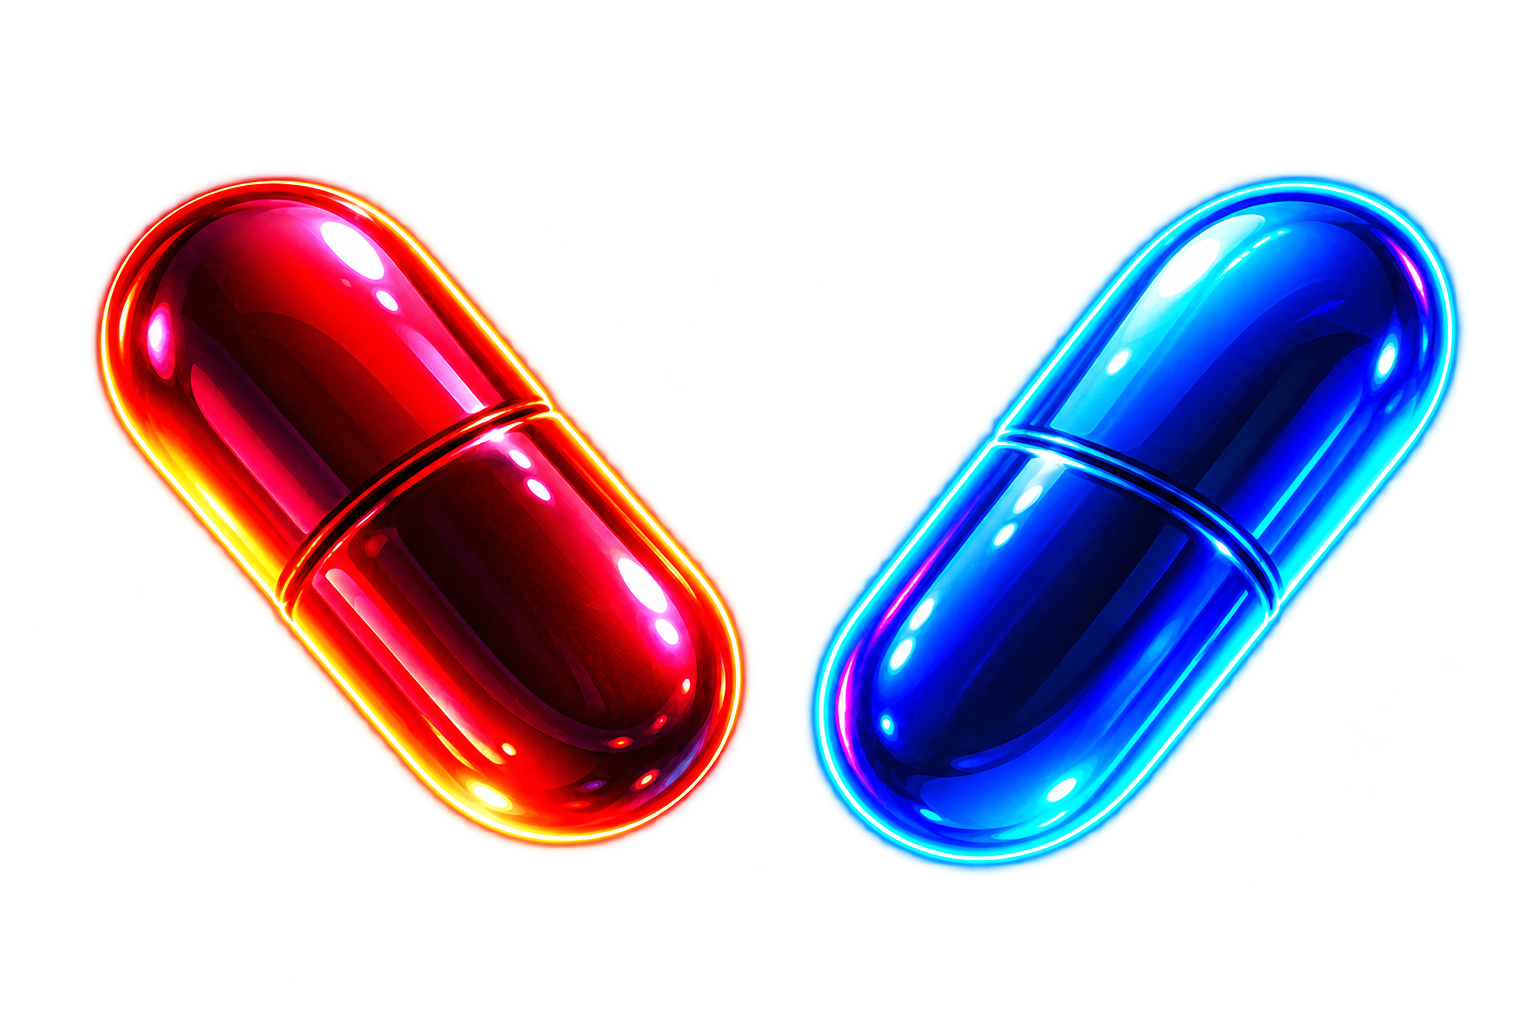
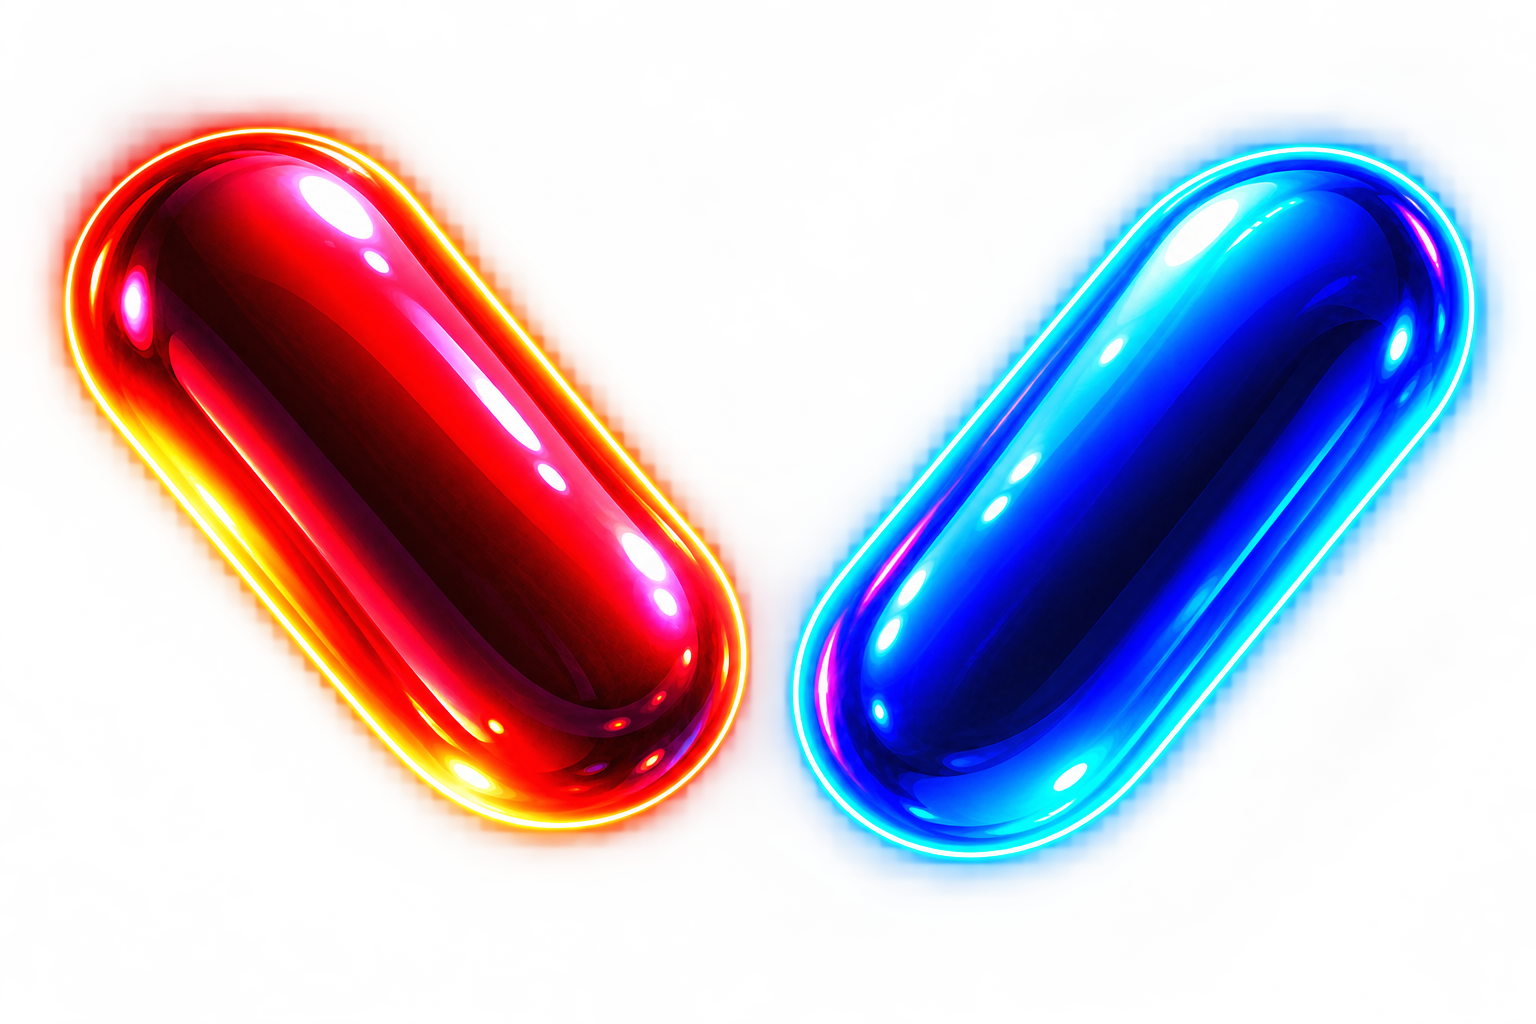
Add Would You Rather functionality and update UI components

diff --git a/lib/screens/gameplay_screen.dart b/lib/screens/gameplay_screen.dart
@@ -463,6 +463,46 @@ class _GameplayScreenState extends State<GameplayScreen> {
     setState(() {});
   }
 
+  void _applyWouldYouRatherAndAdvance({required bool chooseRightOption}) {
+    _engine.applyWouldYouRatherVote(chooseRightOption: chooseRightOption);
+    if (_engine.isFinished) {
+      Navigator.of(context).pushReplacement(
+        MaterialPageRoute(
+          builder: (_) => EndGameScreen(
+            players: _engine.ranking,
+            replayPlayerNames:
+                _engine.players.map((p) => p.name).toList(),
+            replayPlayerAvatars:
+                _engine.players.map((p) => p.avatarBytes).toList(),
+          ),
+        ),
+      );
+      return;
+    }
+    setState(() {});
+  }
+
+  List<String> _wouldYouRatherOptions() {
+    final question = _engine.currentQuestion;
+    const prompt = 'Would you rather ';
+    final trimmedQuestion = question.endsWith('?')
+        ? question.substring(0, question.length - 1)
+        : question;
+    final coreQuestion = trimmedQuestion.startsWith(prompt)
+        ? trimmedQuestion.substring(prompt.length)
+        : trimmedQuestion;
+    final splitIndex = coreQuestion.indexOf(' OR ');
+
+    if (splitIndex == -1) {
+      return const ['A', 'B'];
+    }
+
+    return [
+      coreQuestion.substring(0, splitIndex).trim(),
+      coreQuestion.substring(splitIndex + 4).trim(),
+    ];
+  }
+
   @override
   void initState() {
     super.initState();
@@ -775,6 +815,74 @@ class _GameplayScreenState extends State<GameplayScreen> {
                                 ),
                               ),
                             ],
+                          )
+                        else if (widget.mode == GameMode.wouldYouRather)
+                          Builder(
+                            builder: (context) {
+                              final options = _wouldYouRatherOptions();
+                              return Row(
+                                mainAxisAlignment: MainAxisAlignment.center,
+                                children: [
+                                  SizedBox(
+                                    width: 140,   // Taille bouton rouge
+                                    height: 140, // Taille bouton rouge
+                                    child: WestElevatedButton(
+                                      borderRadius: BorderRadius.circular(999),
+                                      style: ElevatedButton.styleFrom(
+                                        backgroundColor: const Color(0xFFC62828),
+                                        foregroundColor: Colors.white,
+                                        shape: const CircleBorder(),
+                                      ),
+                                      onPressed: () => _applyWouldYouRatherAndAdvance(
+                                        chooseRightOption: false,
+                                      ),
+                                      child: Padding(
+                                        padding: const EdgeInsets.all(12),
+                                        child: Text(
+                                          options[0],
+                                          textAlign: TextAlign.center,
+                                          maxLines: 4,
+                                          overflow: TextOverflow.ellipsis,
+                                          style: const TextStyle(
+                                            fontWeight: FontWeight.bold,
+                                            fontSize: 16, // Taille du texte dans le bouton rouge de "Would you rather"
+                                          ),
+                                        ),
+                                      ),
+                                    ),
+                                  ),
+                                  const SizedBox(width: 22),
+                                  SizedBox(
+                                    width: 140,   // Taille bouton vert de "Would you rather"
+                                    height: 140, // Taille bouton vert de "Would you rather"
+                                    child: WestElevatedButton(
+                                      borderRadius: BorderRadius.circular(999),
+                                      style: ElevatedButton.styleFrom(
+                                        backgroundColor: const Color(0xFF2E7D32),
+                                        foregroundColor: Colors.white,
+                                        shape: const CircleBorder(),
+                                      ),
+                                      onPressed: () => _applyWouldYouRatherAndAdvance(
+                                        chooseRightOption: true,
+                                      ),
+                                      child: Padding(
+                                        padding: const EdgeInsets.all(12),
+                                        child: Text(
+                                          options[1],
+                                          textAlign: TextAlign.center,
+                                          maxLines: 4,
+                                          overflow: TextOverflow.ellipsis,
+                                          style: const TextStyle(
+                                            fontWeight: FontWeight.bold,
+                                            fontSize: 16, // Taille du texte dans le bouton vert de "Would you rather"
+                                          ),
+                                        ),
+                                      ),
+                                    ),
+                                  ),
+                                ],
+                              );
+                            },
                           )
                         else if (widget.mode == GameMode.truthOrDare)
                           (_todQuestion == null

diff --git a/test/game_engine_test.dart b/test/game_engine_test.dart
@@ -26,6 +26,24 @@ void main() {
     test('0% agreement deducts points', () {
       expect(engine.scoreDeltaForVote(agreeVotes: 0, voterCount: 2), -10);
     });
+
+
+    test('would you rather right choice gives max points and advances turn', () {
+      final wouldYouRatherEngine = GameEngine(
+        players: [Player('A'), Player('B'), Player('C')],
+        mode: GameMode.wouldYouRather,
+        theme: PartyTheme.friendsNight,
+      );
+
+      final delta = wouldYouRatherEngine.applyWouldYouRatherVote(
+        chooseRightOption: true,
+      );
+
+      expect(delta, 10);
+      expect(wouldYouRatherEngine.players.first.score, 10);
+      expect(wouldYouRatherEngine.currentTurn, 1);
+      expect(wouldYouRatherEngine.activePlayerIndex, 1);
+    });
   });
 
   group('GameEngine mix theme', () {

diff --git a/lib/widgets/west_buttons.dart b/lib/widgets/west_buttons.dart
@@ -106,12 +106,14 @@ class WestElevatedButton extends StatelessWidget {
     required this.child,
     this.style,
     this.disablePressedEffect = false,
+    this.borderRadius = const BorderRadius.all(Radius.circular(16)),
   });
 
   final VoidCallback? onPressed;
   final Widget child;
   final ButtonStyle? style;
   final bool disablePressedEffect;
+  final BorderRadius borderRadius;
 
   @override
   Widget build(BuildContext context) {
@@ -125,7 +127,7 @@ class WestElevatedButton extends StatelessWidget {
     }
     return _PressedEffectWrapper(
       enabled: onPressed != null,
-      borderRadius: BorderRadius.circular(16),
+      borderRadius: borderRadius,
       child: button,
     );
   }

diff --git a/lib/models/game_engine.dart b/lib/models/game_engine.dart
@@ -93,6 +93,17 @@ class GameEngine {
     return delta;
   }
 
+  int applyWouldYouRatherVote({required bool chooseRightOption}) {
+    final delta = chooseRightOption ? maxDelta : -maxDelta;
+    activePlayer.score += delta;
+    currentTurn += 1;
+    activePlayerIndex = (activePlayerIndex + 1) % players.length;
+    if (!isFinished) {
+      _drawNextQuestion();
+    }
+    return delta;
+  }
+
   String drawTruthOrDareQuestion(bool isTruth) {
     final key = isTruth ? 'truth' : 'dare';
     final pool = <String>[];
